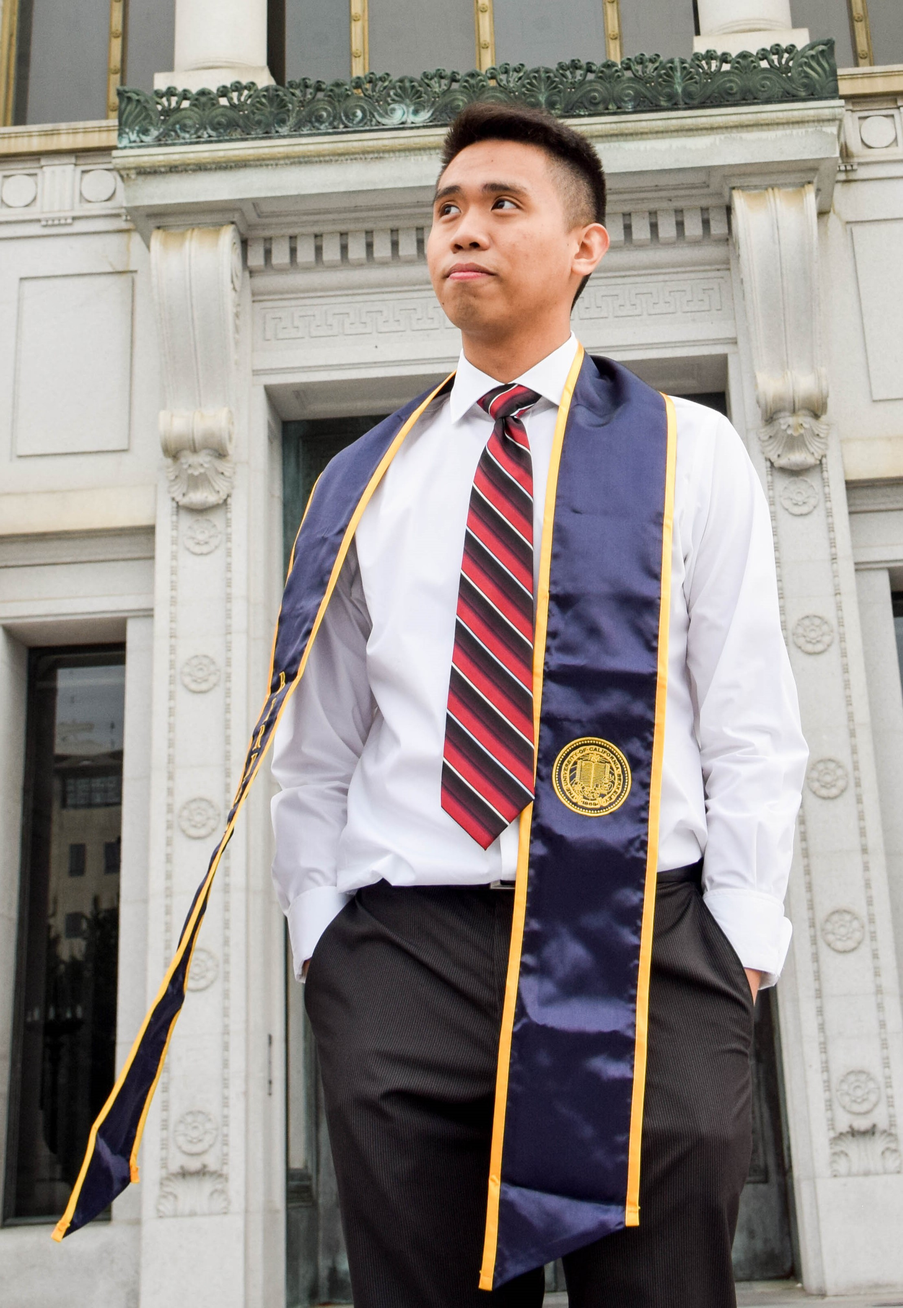
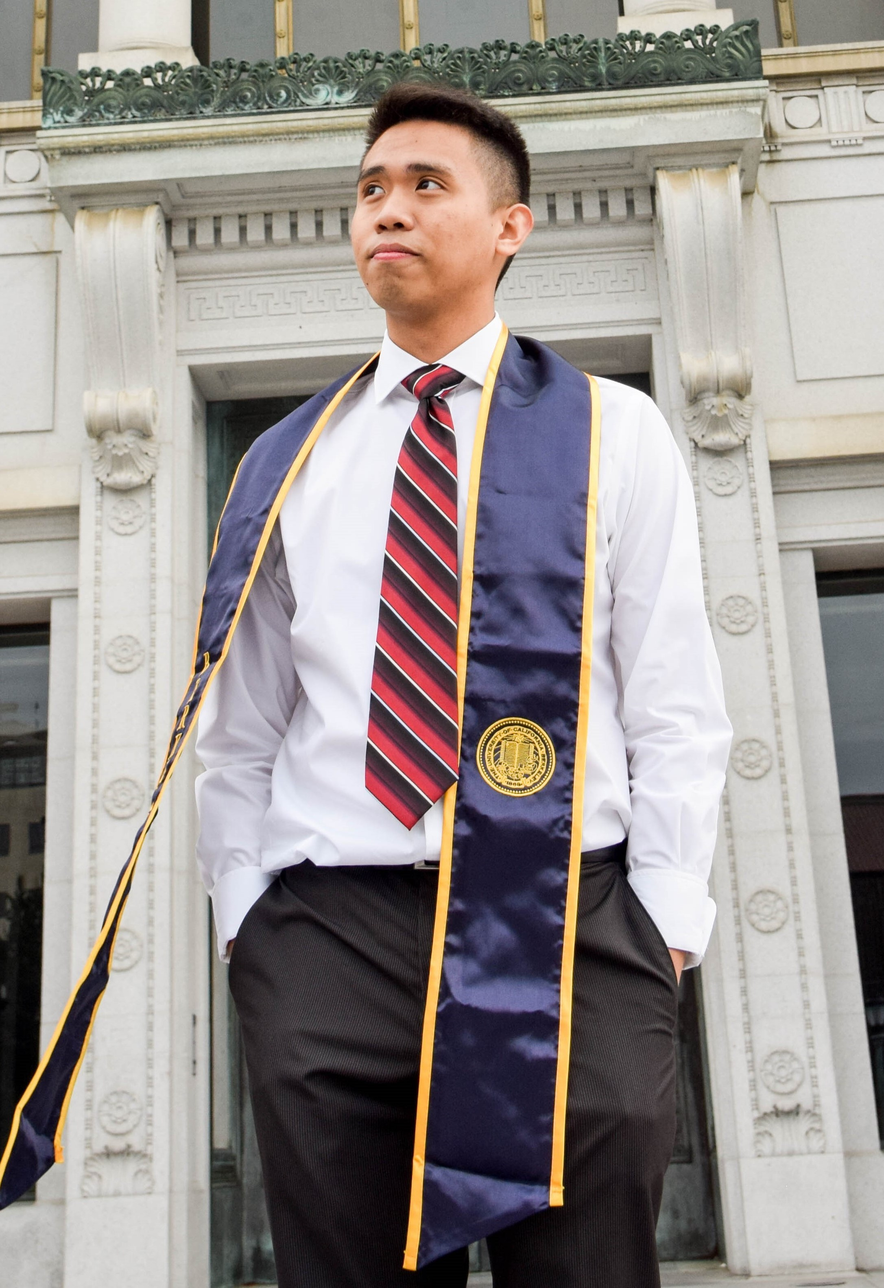
Modify picture

diff --git a/index.md b/index.md
@@ -9,7 +9,7 @@ math: false
 
 <div>
   <div class="col" style="float: right;">
-    <img class="prof-im" src="images/new_profile.jpg" style="display: block; width: 81%; margin: auto;"/>
+    <img class="prof-im" src="images/new_profile.jpg" style="display: block; width: 80%; margin: auto;"/>
   </div>
   <div>
     <p>
